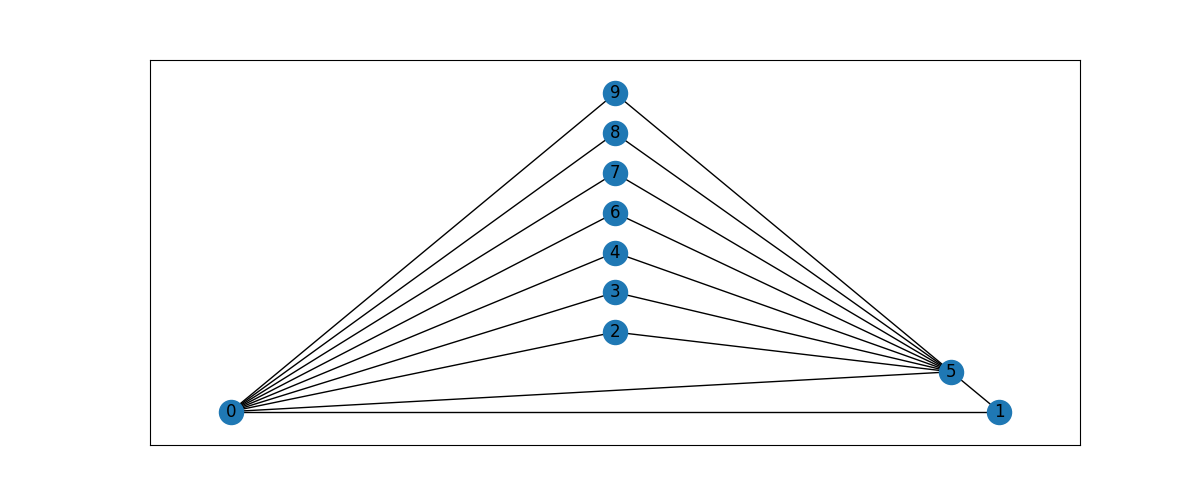
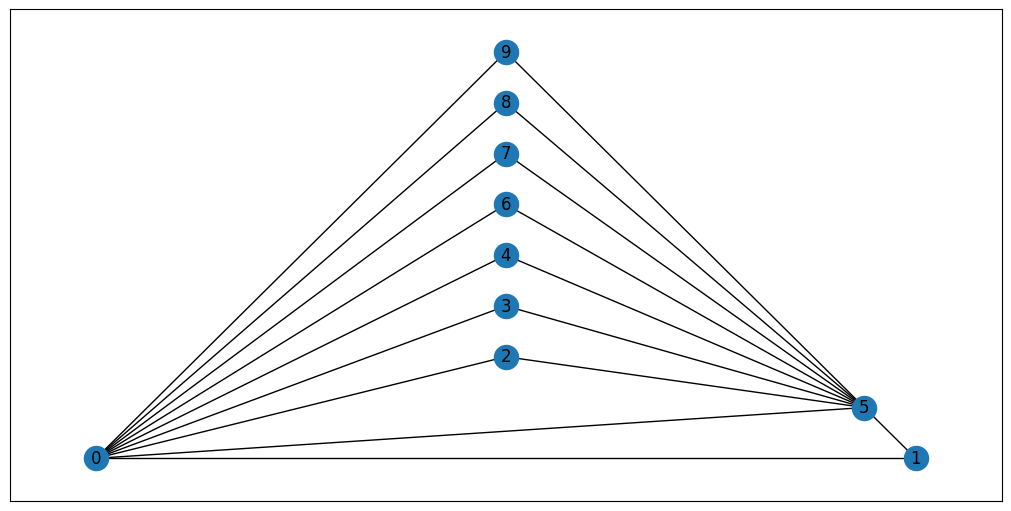
updates

diff --git a/cvf-analysis/plot_graphs.py b/cvf-analysis/plot_graphs.py
@@ -3,29 +3,28 @@ import networkx as nx
 from matplotlib import pyplot as plt
 
 graph_names = [
-    # "graph_1",
-    # "graph_2",
-    # "graph_3",
-    
-    # "graph_6",
-    # "graph_6b",
-    # "graph_7",
-    # "graph_8",
-
-    "graph_4",
-    "graph_5",
+    "graph_1",
+    "graph_2",
+    "graph_3",
+    "graph_6",
+    "graph_6b",
+    "graph_7",
+    "graph_8",
+    # "graph_4",
+    # "graph_5",
 ]
 
-planar = True
+planar = False
 
 for gname in graph_names:
     G = nx.read_adjlist(f"graphs/{gname}.txt")
-    fig = plt.figure(figsize=(12, 5))
+    fig = plt.figure(figsize=(10, 5), constrained_layout=True)
     if planar:
         pos = nx.planar_layout(G)
-        nx.draw_networkx(G, pos=pos, ax=fig.add_subplot())
+        nx.draw_networkx(G, pos=pos, node_color="white", ax=fig.add_subplot())
     else:
-        nx.draw_networkx(G, ax=fig.add_subplot())
+        nx.draw_networkx(G, node_color="white", ax=fig.add_subplot())
 
+    fig.suptitle(f"Graph {gname}", fontsize=10)
     fig.savefig(f"graph_images/{gname}.png")
     # plt.show()

diff --git a/cvf-analysis/plot_results.py b/cvf-analysis/plot_results.py
@@ -6,7 +6,7 @@ import seaborn as sns
 from matplotlib import pyplot as plt
 
 results_dir = "results"
-program = "maximal_matching"  # coloring, dijkstra_token_ring, maximal_matching, maximal_independent_set
+program = "coloring"  # coloring, dijkstra_token_ring, maximal_matching, maximal_independent_set
 analysis_type = "full"  # full, partial
 graph_names = [
     "graph_1",
@@ -101,7 +101,12 @@ for graph_name in graph_names:
             figsize=(10, 5),
             constrained_layout=True,
         )
-        fig_title = f"rank_effect_by_node__{analysis_type}__{program}__{graph_name}__node_{index[0]}"
+        node_id = index[0]
+        if node_id < 10:
+            node_id = f"0{node_id}"
+        else:
+            node_id = f"{node_id}"
+        fig_title = f"rank_effect_by_node__{analysis_type}__{program}__{graph_name}__node_{node_id}"
         fig.suptitle(fig_title, fontsize=10)
         plot_node_rank_effect(index[0], grp, axs)
         fig.savefig(
